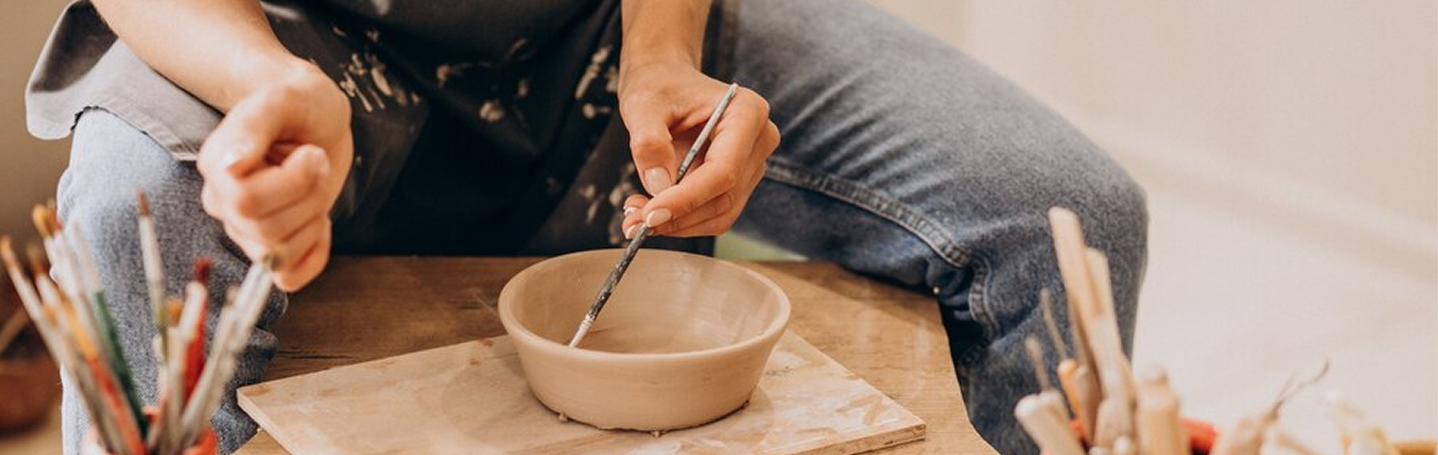
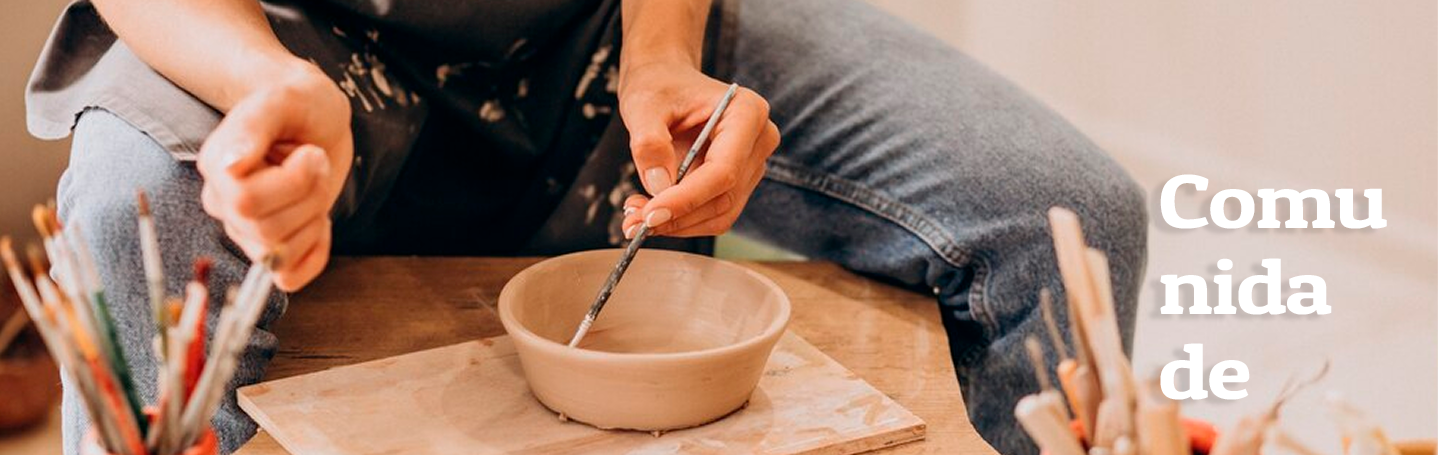
Implementação da página de comunidade (feed de postagens)

diff --git a/OneDrive/Documentos/projects/trabalhoarteira/comunidade.html b/OneDrive/Documentos/projects/trabalhoarteira/comunidade.html
@@ -1,0 +1,147 @@
+<!DOCTYPE html>
+<html lang="pt-br">
+<head>
+  <meta charset="UTF-8">
+  <meta name="viewport" content="width=device-width, initial-scale=1.0">
+  <link rel="shortcut icon" href="imagens/favicon-16x16.png" type="image/x-icon">
+  <link rel="stylesheet" href="style.css">
+  <link rel="preconnect" href="https://fonts.googleapis.com">
+  <link rel="preconnect" href="https://fonts.gstatic.com" crossorigin>
+  <link href="https://fonts.googleapis.com/css2?family=Oleo+Script+Swash+Caps:wght@400;700&family=Poppins:ital,wght@0,100;0,200;0,300;0,400;0,500;0,600;0,700;0,800;0,900;1,100;1,200;1,300;1,400;1,500;1,600;1,700;1,800;1,900&display=swap" rel="stylesheet">
+  <title>Arteira: Comunidade</title>
+</head>
+<body>
+  <header>
+    <a href="index.html">
+      <h1 class="h1Titulo">Arteira</h1>
+    </a>
+    <div class="barradepesquisa">
+    <img src="imagens/lupa.png" alt="Lupa de pesquisa">
+    <input id="input" type="procurar" placeholder="O que você está procurando?">
+    </div>
+    <button class="sacoladecompras" id="btnCarrinho">
+    <img src="imagens/sacoladecompras.png" alt="Sacola de compras">
+    <span class="badge">1</span>
+</button>
+    <div class="botoes">
+      <button class="usuario">
+      <img src="imagens/usuario.png" alt="Usuário">
+      </button>
+      <div class="textoLogin">
+        <button class="Entrar">Entre</button> <span>ou</span>
+        <button class="Registrar">Cadastre-se</button>
+      </div>
+    </div>
+  </header>
+  <nav aria-label="Menu Principal">
+      <ul class="menu">
+        <li><a href="#">Categorias</a></li>
+        <li><a href="comunidade.html">Comunidade</a></li>
+        <li><a href="#">Frete</a></li>
+        <li><a href="#">Catálogo</a></li>
+        <li><a href="#">Denunciar</a></li>
+        <li><a href="#">Cupons</a></li>
+        <li><a href="#">Contato</a></li>
+        <li><a href="#">Vender</a></li>
+        <li><a href="#">Ofertas</a></li>
+      </ul>
+    </nav>
+    <main>
+  <section aria-label="Postagens da Comunidade">
+    <div class="addComunidadeContainer">
+      <button class="addComunidade" id="btnAddComunidade">
+        <img src="imagens/botaomais.png" alt="Botão de adicionar postagens">
+      </button>
+    </div>
+
+    <div class="gridComunidade">
+
+      <a href="#" class="postComunidade">
+        <img src="imagens/ecobagdavibrito.png" alt="Postagem 1">
+        <div class="infopost">
+          <img src="imagens/davibrito.png" alt="DavicrochesS2">
+          <div class="textopost">
+            <span>DavicrochesS2</span>
+            <p>Duas ecobags de crochê</p>
+          </div>
+          <button class="curtir" id="curtir1">
+            <img src="imagens/curtida.png" alt="Curtir">
+          </button>
+        </div>
+      </a>
+
+      <a href="#" class="postComunidade">
+        <img src="imagens/VASO.png" alt="Postagem 2">
+        <div class="infopost">
+          <img src="imagens/image (1).png" alt="HobbiesDaFer">
+          <div class="textopost">
+            <span>HobbiesDaFer</span>
+            <p>Decompagem em jarra</p>
+          </div>
+          <button class="curtir" id="curtir2">
+            <img src="imagens/curtida.png" alt="Curtir">
+          </button>
+        </div>
+      </a>
+
+      <a href="#" class="postComunidade">
+        <img src="imagens/FOLHA.png" alt="Postagem 3">
+        <div class="infopost">
+          <img src="imagens/image (2).png" alt="ArtesanatoporAmor">
+          <div class="textopost">
+            <span>ArtesanatoporAmor</span>
+            <p>Porta joia em cerâmica fria</p>
+          </div>
+          <button class="curtir" id="curtir3">
+            <img src="imagens/curtida.png" alt="Curtir">
+          </button>
+        </div>
+      </a>
+
+      <a href="#" class="postComunidade">
+        <img src="imagens/gatopintura.png" alt="Postagem 4">
+        <div class="infopost">
+          <img src="imagens/image (3).png" alt="SolAmareloPinturas">
+          <div class="textopost">
+            <span>SolAmareloPinturas</span>
+            <p>Pintura de pets em aquarela</p>
+          </div>
+          <button class="curtir" id="curtir4">
+            <img src="imagens/curtida.png" alt="Curtir">
+          </button>
+        </div>
+      </a>
+
+      <a href="#" class="postComunidade">
+        <img src="imagens/ABELHA.png" alt="Postagem 5">
+        <div class="infopost">
+          <img src="imagens/image (4).png" alt="LinhasDaVida">
+          <div class="textopost">
+            <span>LinhasDaVida</span>
+            <p>Quadro bordado</p>
+          </div>
+          <button class="curtir" id="curtir5">
+            <img src="imagens/curtida.png" alt="Curtir">
+          </button>
+        </div>
+      </a>
+
+      <a href="#" class="postComunidade">
+        <img src="imagens/camagato.png" alt="Postagem 6">
+        <div class="infopost">
+          <img src="imagens/image.png" alt="ILoveCats">
+          <div class="textopost">
+            <span>ILoveCats</span>
+            <p>Caminha para pets</p>
+          </div>
+          <button class="curtir" id="curtir6">
+            <img src="imagens/curtida.png" alt="Curtir">
+          </button>
+        </div>
+      </a>
+
+    </div>
+  </section>
+</main>
+</body>
+</html>

diff --git a/OneDrive/Documentos/projects/trabalhoarteira/style.css b/OneDrive/Documentos/projects/trabalhoarteira/style.css
@@ -10,8 +10,12 @@
   font-family: 'Oleo Script Swash Caps', system-ui;
   padding: 20px;
   margin-left: 10px;
+  font-weight: lighter;
 }
 
+header a {
+  text-decoration: none;
+}
 header {
   display: flex;
   justify-content: space-between;
@@ -206,3 +210,93 @@ header {
 .miçangas:hover .overlay {
   bottom: 0; 
 } 
+
+.addComunidadeContainer {
+  display: flex;
+  justify-content: center;
+  margin-top: 50px;
+}
+
+.addComunidade {
+  background: none;
+  border: none;
+  cursor: pointer;
+  padding: 0;
+  display: flex;
+  align-items: center;
+}
+
+.addComunidade img {
+  width: 50px;
+  height: 48px;
+}
+
+.gridComunidade {
+  columns: 3;
+  gap: 20px;
+  padding: 20px;
+  margin-top: 20px;
+}
+
+.postComunidade {
+  break-inside: avoid;
+  margin-bottom: 20px;
+  display: block;
+  text-decoration: none;
+}
+
+.postComunidade > img {
+  width: 100%;
+  display: block;
+}
+
+.infopost {
+  display: flex;
+  align-items: center;
+  padding: 8px;
+  gap: 8px;
+}
+
+.infopost > img {
+  width: 35px;
+  height: 32px;
+  border-radius: 50%;
+  flex-shrink: 0;
+}
+
+.textopost {
+  margin-top: -5px;
+  flex: 1;
+}
+
+.textopost span {
+  font-family: 'Poppins', system-ui;
+  font-size: 10px;
+  color: #000000;
+  display: block;
+}
+
+.textopost p {
+  font-family: 'Poppins', system-ui;
+  font-size: 12px;
+  color: #000000;
+  font-weight: bold;
+}
+
+.curtir {
+  border: none;
+  background: none;
+  cursor: pointer;
+  margin-left: auto;
+  flex-shrink: 0;
+}
+
+.curtir img {
+  width: 34px;
+  height: 34px;
+}
+
+.curtir:hover {
+  transform: scale(1.1);
+  transition: transform 0.2s ease;
+}

diff --git a/OneDrive/Documentos/projects/trabalhoarteira/index.html b/OneDrive/Documentos/projects/trabalhoarteira/index.html
@@ -12,7 +12,9 @@
 </head>
 <body>
   <header>
-    <h1 class="h1Titulo">Arteira</h1>
+    <a href="index.html" class="logo">
+      <h1 class="h1Titulo">Arteira</h1>
+    </a>
     <div class="barradepesquisa">
     <img src="imagens/lupa.png" alt="Lupa de pesquisa">
     <input id="input" type="procurar" placeholder="O que você está procurando?">
@@ -31,10 +33,10 @@
       </div>
     </div>
   </header>
-  <nav>
+  <nav aria-label="Menu Principal">
       <ul class="menu">
         <li><a href="#">Categorias</a></li>
-        <li><a href="#">Comunidade</a></li>
+        <li><a href="comunidade.html">Comunidade</a></li>
         <li><a href="#">Frete</a></li>
         <li><a href="#">Catálogo</a></li>
         <li><a href="#">Denunciar</a></li>
@@ -45,8 +47,8 @@
       </ul>
     </nav>
     <main>
-      <section>
-        <a href="#" class="comunidade">
+      <section class="Comunidade">
+        <a href="comunidade.html" class="comunidade">
           <img src="imagens/imagemcomunidade.png" alt="Comunidade">
         </a>
       </section>